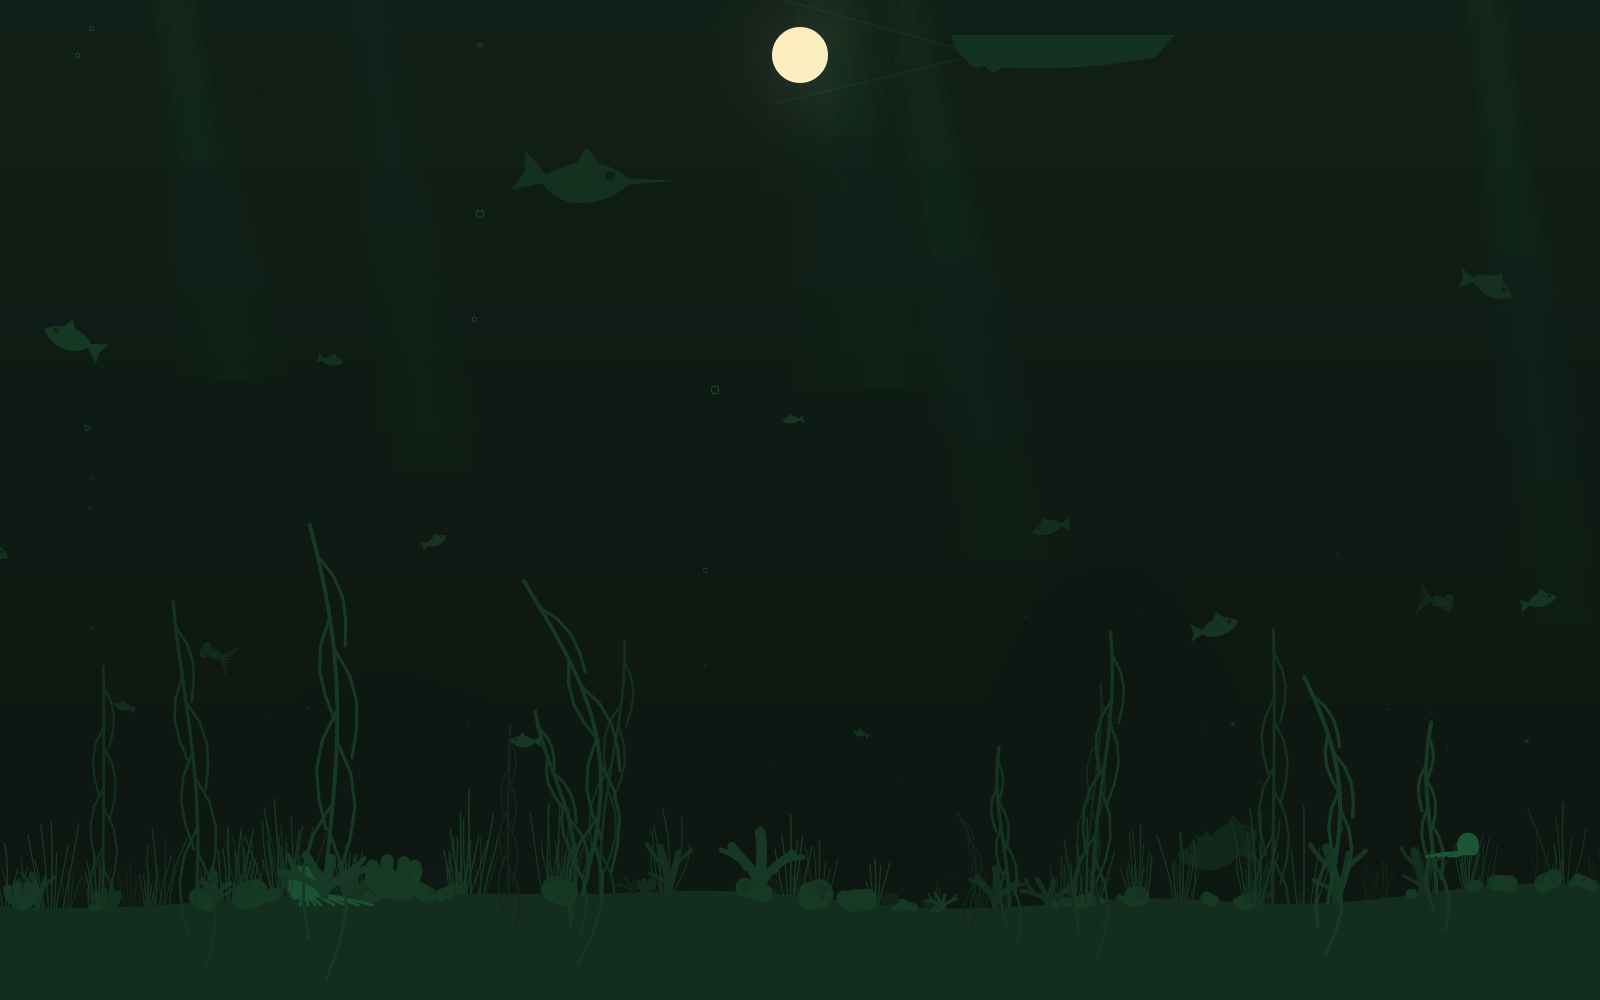
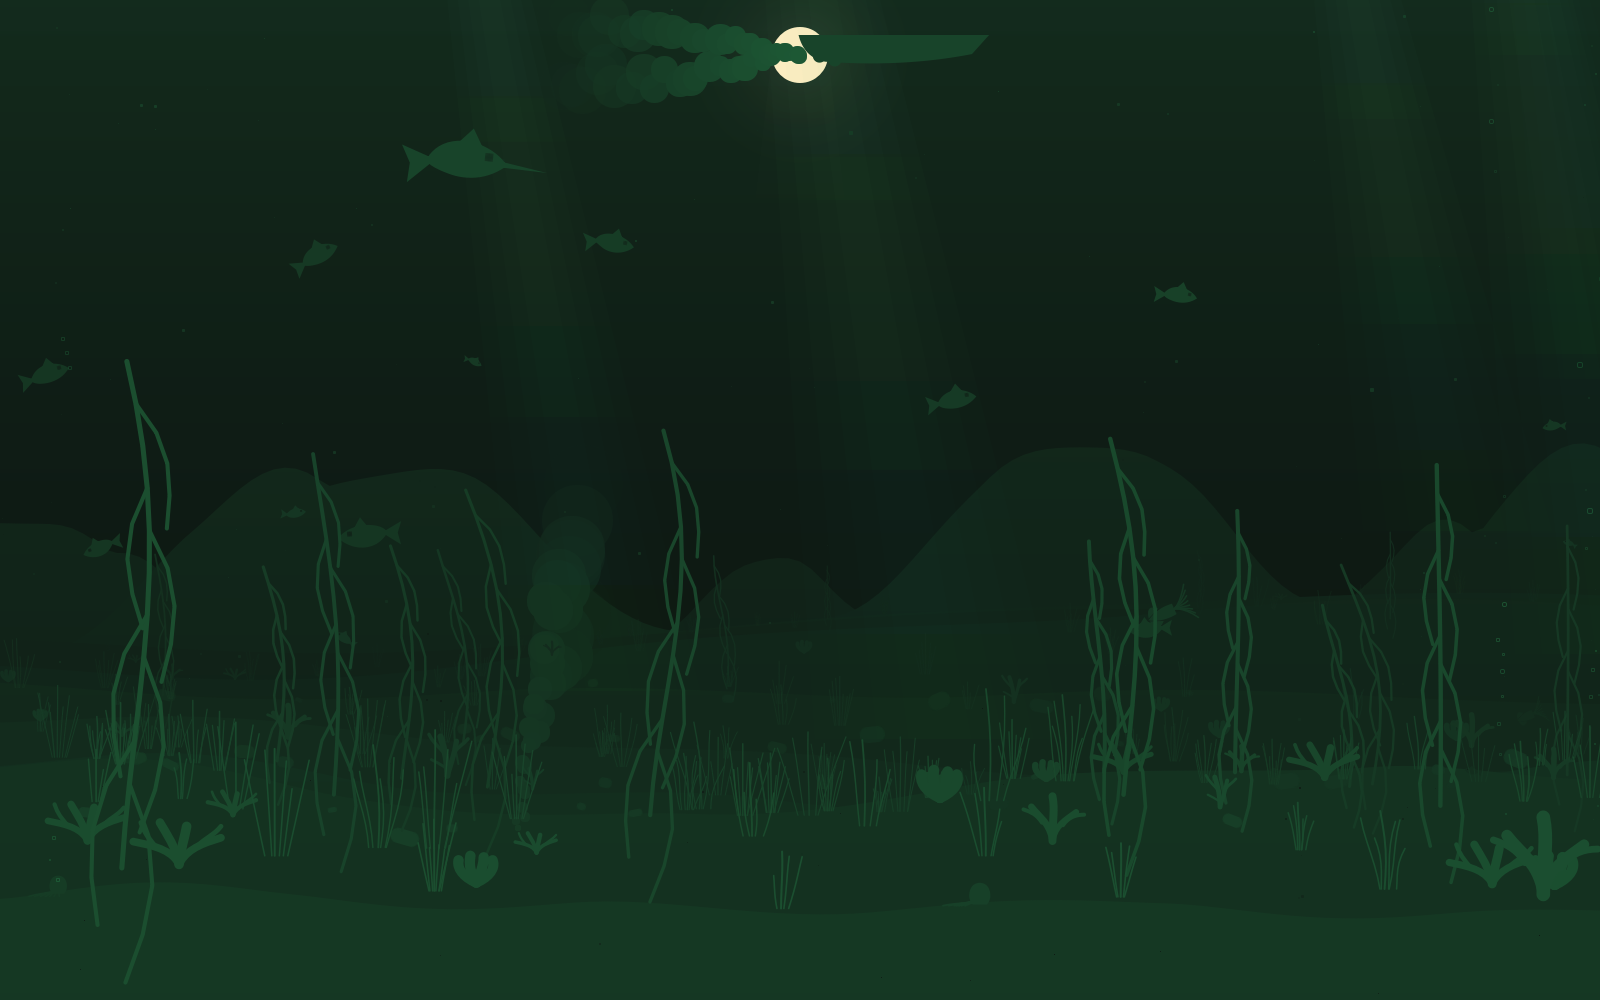
chore(seascape): rebuild the ornament, and the sheets that show it
Picks up the froth off a passer, the octopus repertoire, the shorter
light shafts, prey that quickens near a shark, and corals sized by their
own distance.

diff --git a/seascape/Ornament.js b/seascape/Ornament.js
@@ -43,7 +43,7 @@ var __ornament = (() => {
   };
   var __toCommonJS = (mod) => __copyProps(__defProp({}, "__esModule", { value: true }), mod);
 
-  // ../../../../../../tmp/tmp.FEYCzcGH5J/entry.ts
+  // ../../../../../../tmp/tmp.H3XyAkGhuR/entry.ts
   var entry_exports = {};
   __export(entry_exports, {
     BLOCK_CARD: () => BLOCK_CARD,
